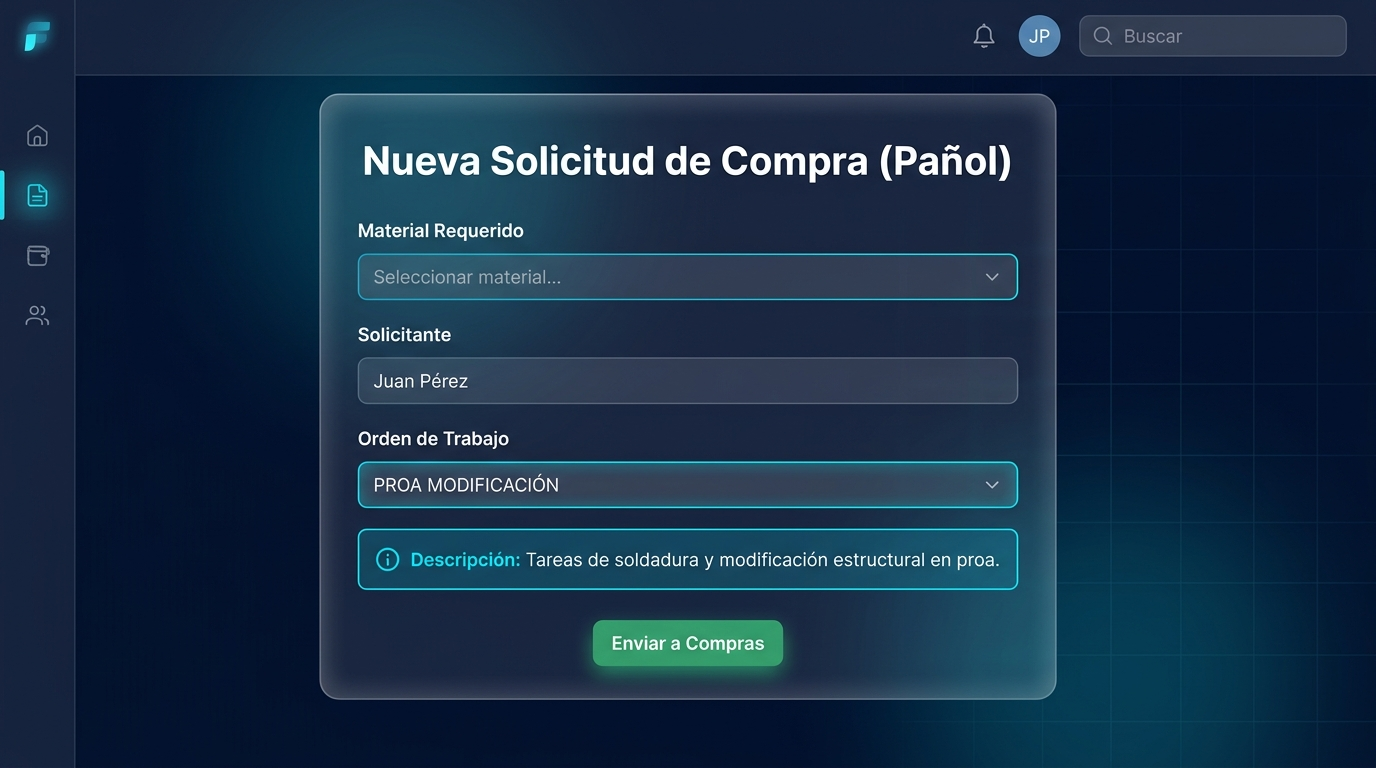
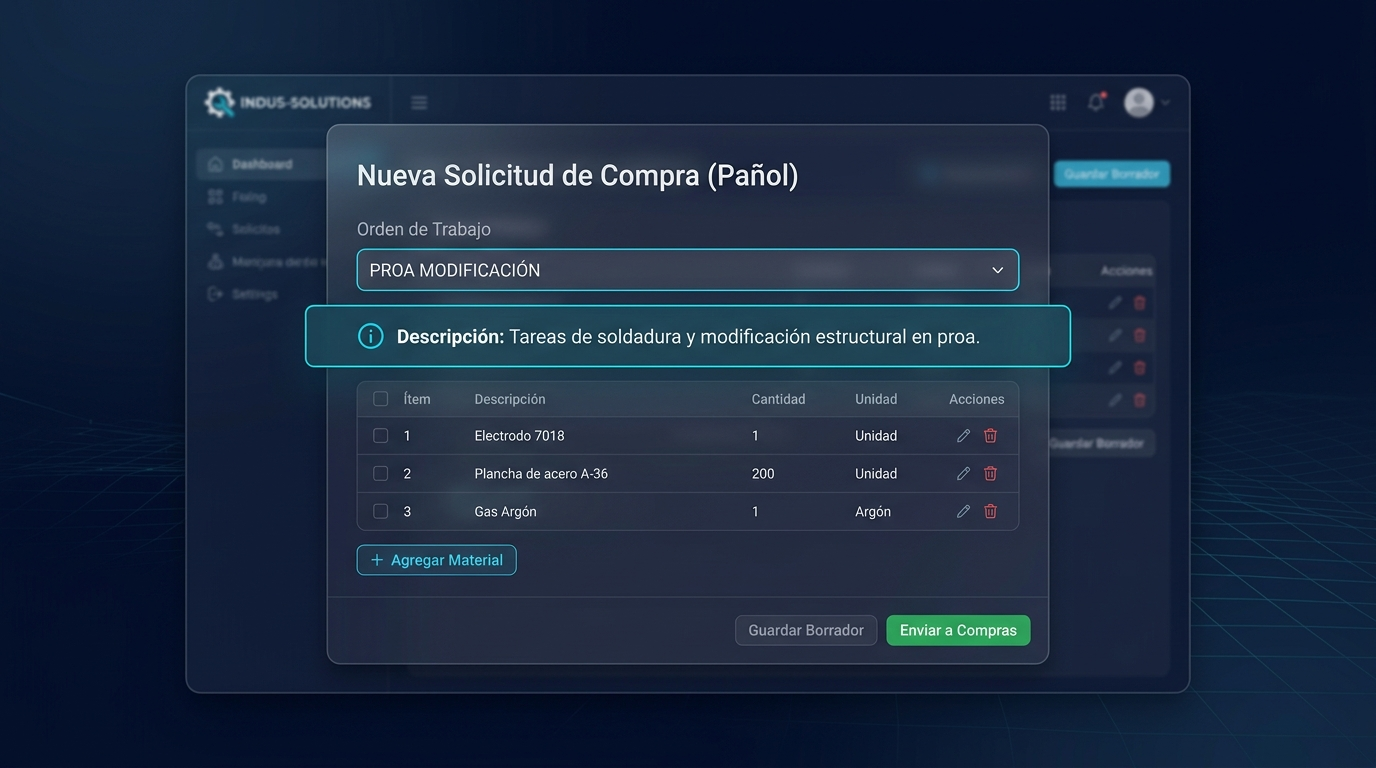
fix(Presentacion, Mockups): ajustar layout estricto de imagenes y regenerar con batch de materiales
- HTML: Se agrego padding-bottom a las glass-card para evitar que se superpongan con el boton flotante de 'Ver Imagen'.
- HTML: Se forzo width: 90% a las .mockup-img para que imagenes extremadamente anchas no ignoren el max-height y desborden la caja flexible de Reveal.js.
- Mockups: Se regeneraron los mockups de Compras y Pañol incluyendo la interfaz de '+ Agregar Material' y grilla para soportar carga por lotes de items a una misma OT.

diff --git a/Presentacion/presentation.html b/Presentacion/presentation.html
@@ -69,7 +69,7 @@
             -webkit-backdrop-filter: blur(12px);
             border: 1px solid var(--glass-border);
             border-radius: 16px;
-            padding: 24px 30px;
+            padding: 24px 30px 50px 30px; /* Extra bottom padding for badge */
             box-shadow: 0 20px 40px -10px rgba(0, 0, 0, 0.5);
             text-align: left;
             margin-bottom: 15px;
@@ -151,7 +151,8 @@
 
         /* Video Mockup sequence */
         .mockup-img {
-            max-width: 100%;
+            width: 90%;
+            max-width: 1000px;
             max-height: 550px !important;
             height: auto;
             object-fit: contain;
